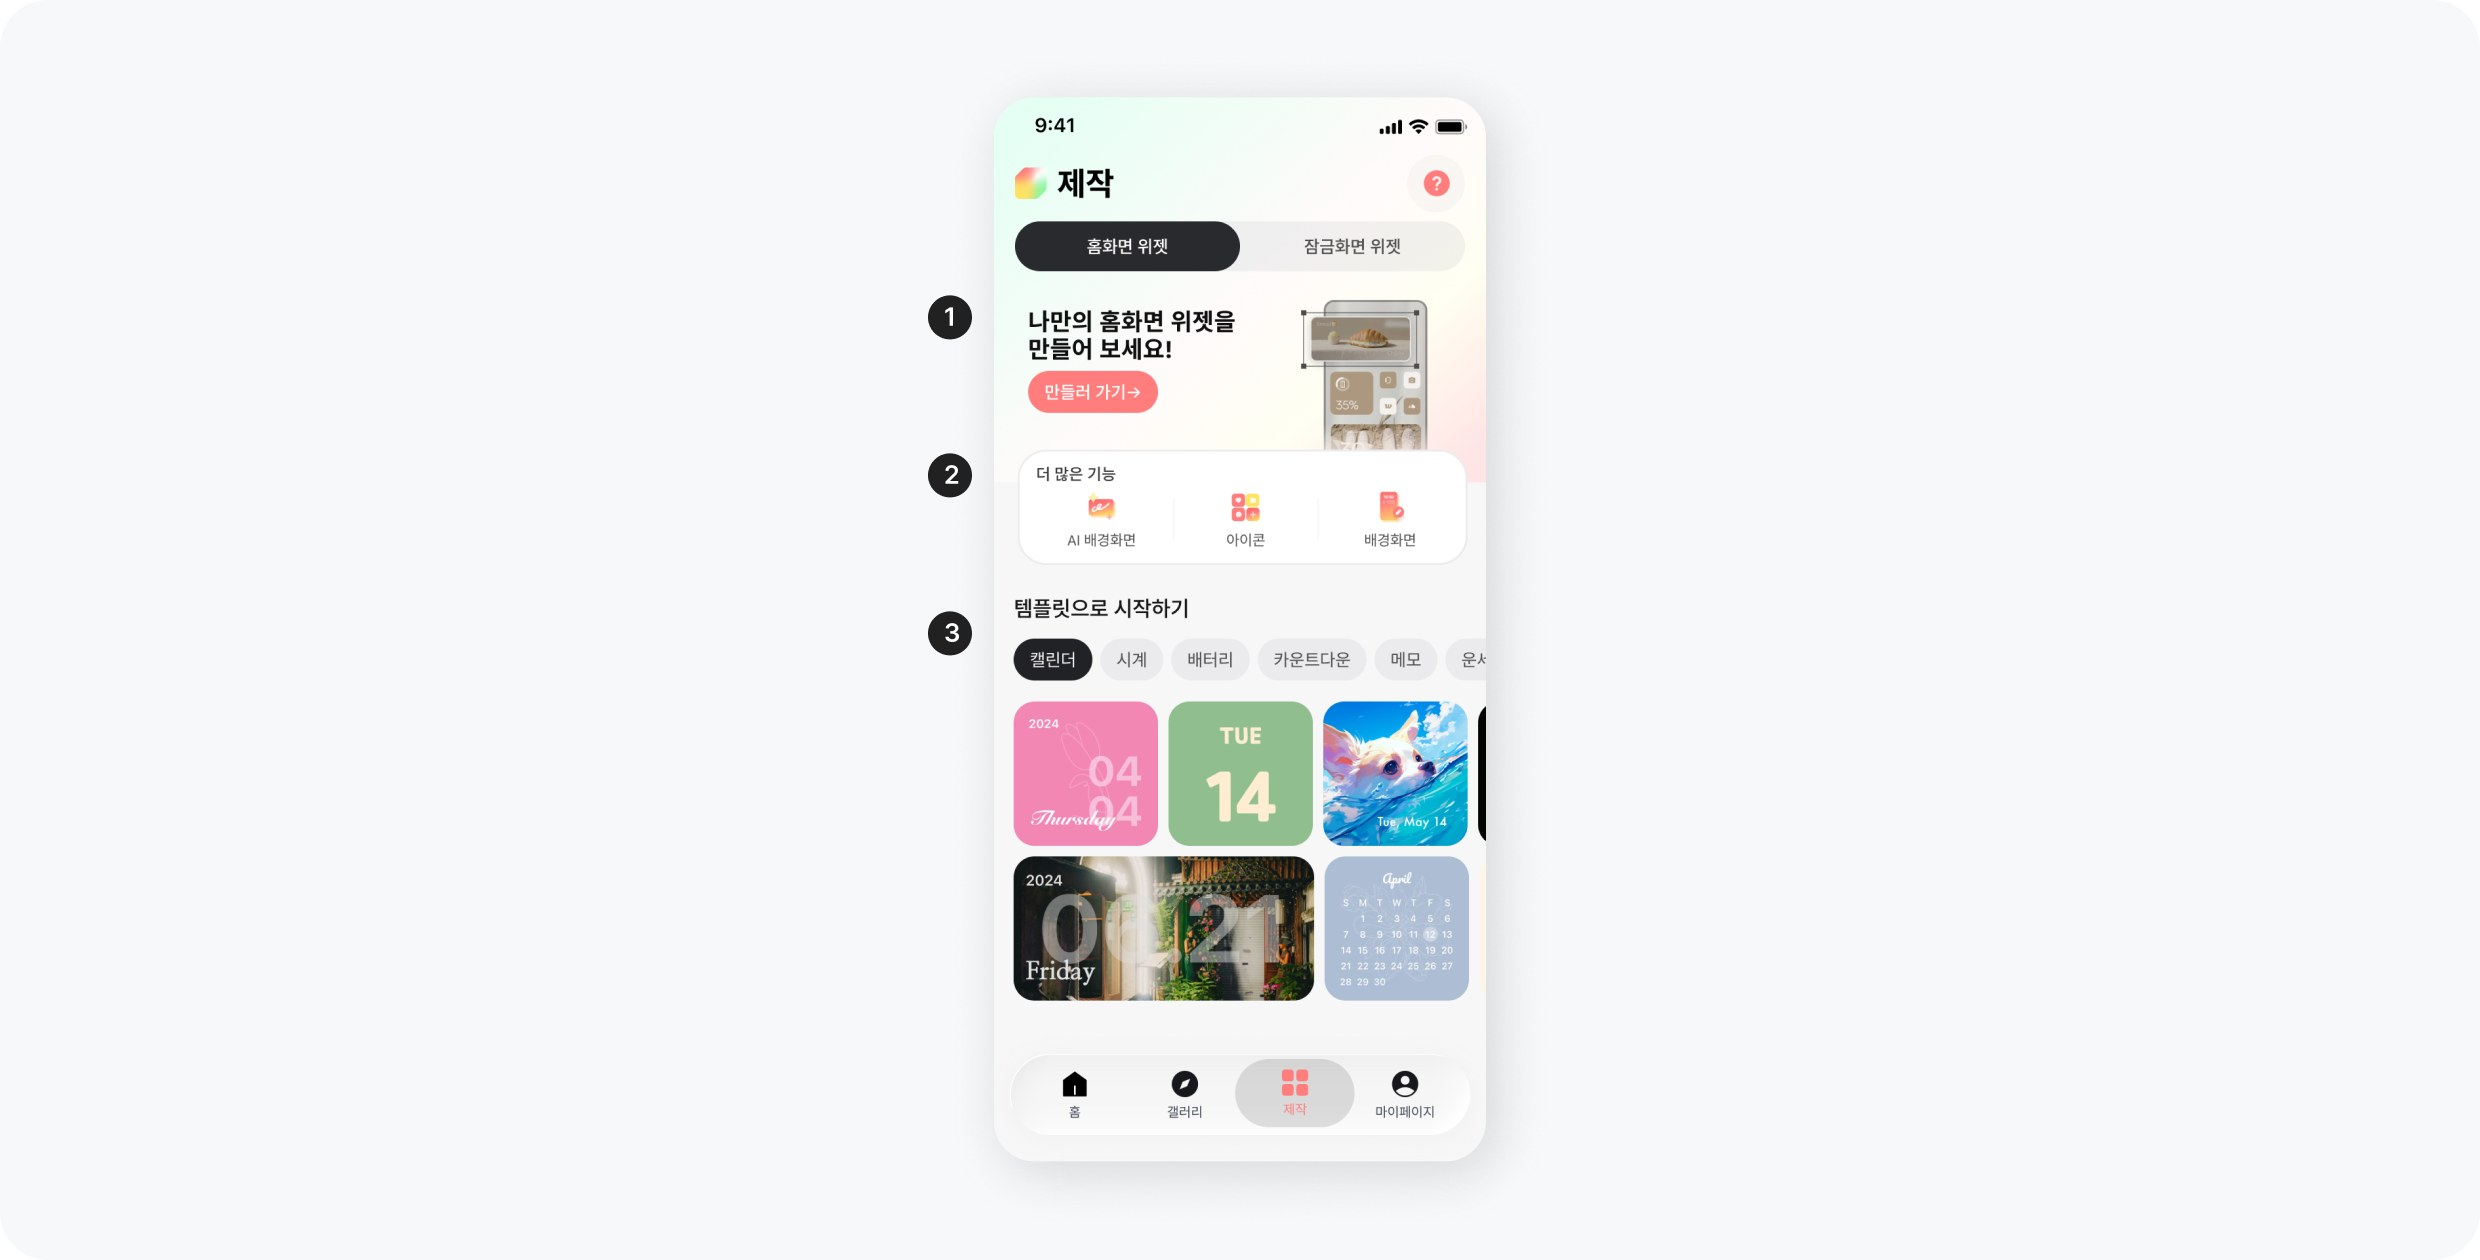
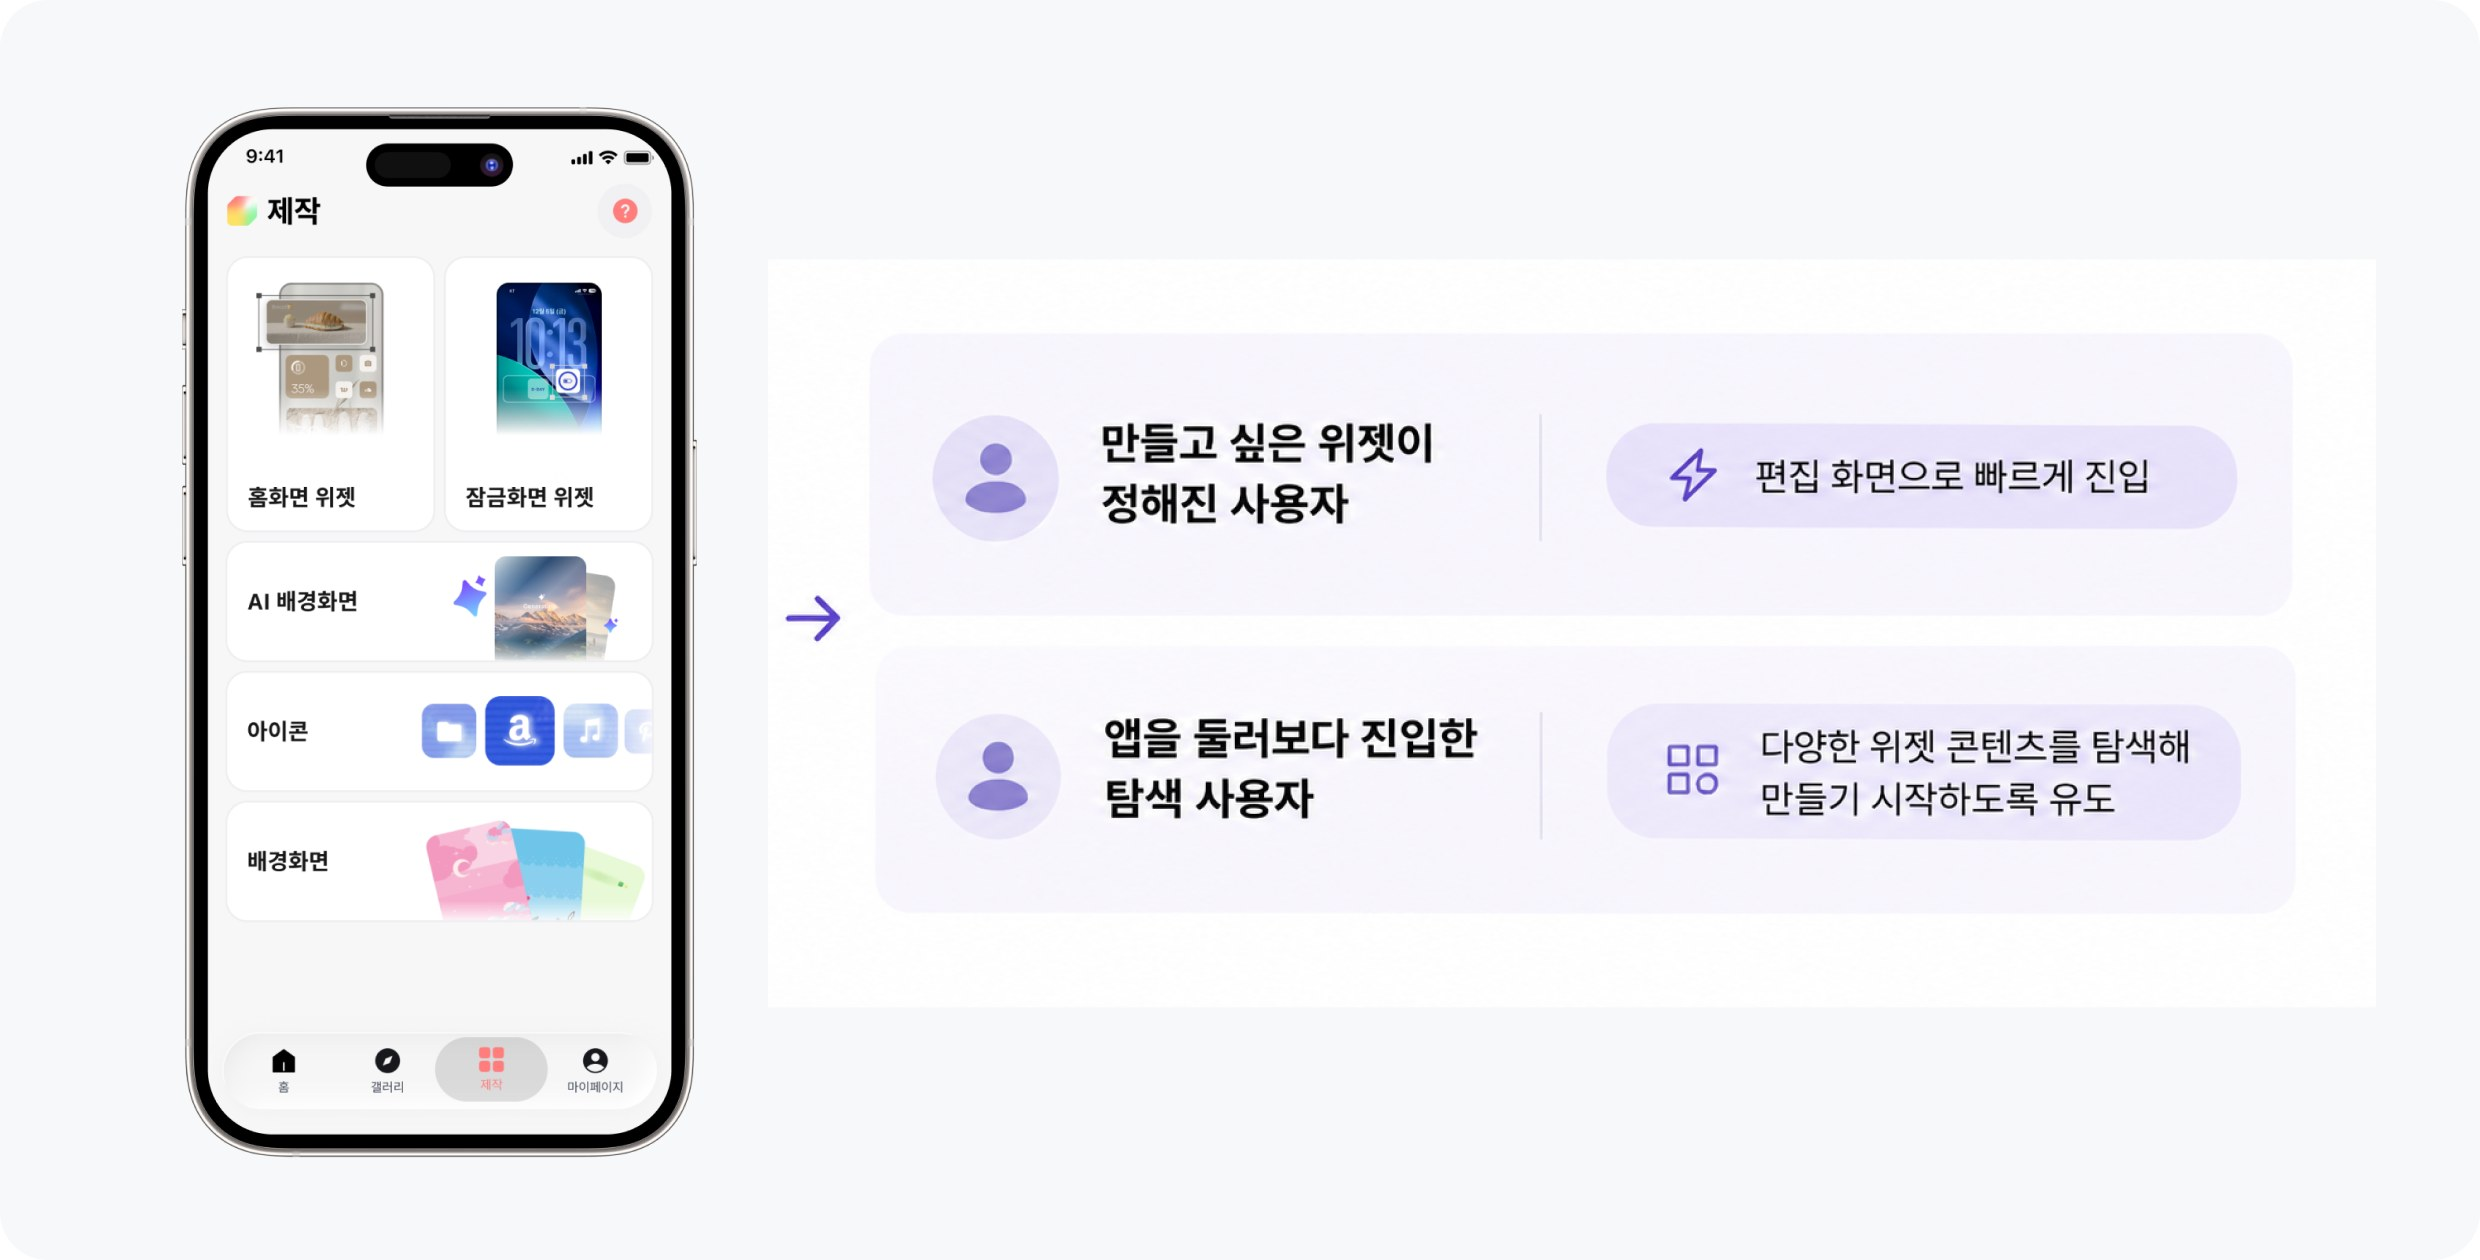
Widget-tab: hero image, new UX Strategy, Draft section, KPI text per Figma

diff --git a/docs/projects/photowidget-widget-tab/index.html b/docs/projects/photowidget-widget-tab/index.html
@@ -19,7 +19,7 @@
 </nav>
 
 <main class="page case-save case-tab">
-  <div class="ph ph-hero-save">위젯 탭 리뉴얼 Hero 이미지 플레이스홀더</div>
+  <img class="hero-shot" src="/yoojin-portfolio/assets/widget-tab/hero.jpg?v=1" width="1240" height="775" alt="제작 탭에서 위젯 탭으로 리뉴얼한 화면" />
 
   <header class="header text-col">
     <p class="caption">Photowidget</p>
@@ -52,20 +52,34 @@
       <p class="caption">KPI</p>
       <h2>제작 탭 진입을 유도하고 위젯 제작으로 이어지게 한다</h2>
       <div class="body body-reg">
-        <p>앞서 확인한 문제를 바탕으로 두 가지 KPI를 설정했어요. 첫 번째는 더 많은 사용자가 제작 탭에 진입하도록 유도해 위젯 제작으로 연결할 수 있는 사용자 모수를 확대하는 것, 두 번째는 탭에 진입한 사용자가 실제 위젯 제작을 시작하도록 유도해 편집 화면 진입률을 높이는 것이에요.</p>
+        <p>앞서 확인한 문제를 바탕으로 두 가지 KPI를 설정했어요. 첫 번째는 더 많은 사용자가 제작 탭에 진입하도록 유도해 위젯 제작으로 연결할 수 있는 사용자 모수를 확대하는 것, 두 번째는 탭에 진입한 사용자가 위젯 제작을 시작하도록 유도해 편집 화면 진입률을 높이는 것이에요.</p>
       </div>
     </div>
   </section>
 
   <section class="sec">
-    <img class="shot" src="/yoojin-portfolio/assets/widget-tab/strategy.jpg?v=2" width="1240" height="630" alt="1차 시안: 위젯 만들기 진입점, 더 많은 기능, 템플릿 영역에 1~3 번호 표시" />
+    <img class="shot" src="/yoojin-portfolio/assets/widget-tab/strategy.jpg?v=3" width="1240" height="630" alt="기존 제작 탭과 사용자 유형 두 가지: 만들고 싶은 위젯이 정해진 사용자는 편집 화면으로 빠르게 진입, 앱을 둘러보다 진입한 탐색 사용자는 위젯 콘텐츠를 탐색해 만들기 시작하도록 유도" />
     <div class="sec-text text-col">
       <p class="caption">UX Strategy</p>
-      <h2>사용자의 탭 진입 목적에 맞춰 탐색 경험을 재구성해 위젯 만들기를 유도한다</h2>
-      <div class="body body-reg stack gap10">
-        <p>기존 제작 탭은 여러 기능의 진입점만 제공하고 있어, 사용자가 탭에 들어와도 위젯 만들기를 시작할 계기가 부족했어요. <br />이를 해결하기 위해 제작 탭을 이용하는 사용자를 목적에 따라 두 유형으로 구분하고, 각 유형에 필요한 경험을 검토했어요.</p>
-        <p>하나는 위젯을 만들러 들어온 사용자가 편집 화면에 빠르게 진입할 수 있도록 하는 것, 다른 하나는 탐색하는 사용자가 다양한 템플릿을 둘러보며 만들고 싶은 위젯을 발견하도록 돕는 것이에요.</p>
-        <p>이 두 방향을 바탕으로 위젯 만들기 진입점을 강조하고 템플릿 탐색 영역을 추가했어요. 또한 기존 사용자의 이용 패턴을 고려해 다른 기능의 진입점은 유지하되 시각적 위계를 낮춰, 위젯 만들기를 중심으로 1차 시안을 구성했어요.</p>
+      <h2>사용자의 탭 진입 목적에 맞춰 제작 탭을 재구성해 위젯 제작 유도하기</h2>
+      <div class="body body-reg">
+        <p>기존 제작 탭은 여러 기능의 진입점만 제공해, 위젯 제작을 충분히 유도하지 못했어요. 이를 해결하기 위해 제작 탭에 진입하는 사용자 시나리오를 그려 두 유형으로 구분하고, 각 상황에 필요한 경험을 제공하고자 했어요.<br />하나는 위젯을 만들러 온 사용자가 편집 화면에 빠르게 진입하도록 하는 것, 다른 하나는 앱을 둘러보다 제작 탭에 진입한 사용자가 위젯 콘텐츠를 발견하고 이를 계기로 만들기 화면에 진입하도록 하는 것이에요.</p>
+      </div>
+    </div>
+  </section>
+
+  <section class="sec split split-tight">
+    <img class="shot" src="/yoojin-portfolio/assets/widget-tab/draft.jpg?v=1" width="610" height="630" alt="1차 시안: 위젯 만들기 진입점, 더 많은 기능 숏컷, 템플릿 영역에 1~3 번호 표시" />
+    <div class="sec-text">
+      <p class="caption">Draft</p>
+      <h2>기존 기능의 접근성을 유지하며 위젯 제작과 탐색 중심으로 화면 설계</h2>
+      <div class="body body-reg">
+        <p>위젯 만들기를 중심으로 제작 탭을 재구성하되, 기존 사용자의 이용 방식에 미치는 영향을 최소화하고자 했어요. 이에 다른 기능의 진입점은 유지하면서 시각적 우선순위를 조정하고, 콘텐츠 탐색 경험을 추가하는 방향으로 다음 세 가지 요소를 중심으로 시안을 설계했어요.</p>
+        <ol class="points points-draft">
+          <li><strong>빠른 편집 화면 진입을 위해 ‘위젯 만들기’를 최상단에 크게 배치</strong></li>
+          <li><strong>기존 기능은 그대로 제공하되, 숏컷으로 축소해 시각적 위계 조정</strong></li>
+          <li><strong>위젯을 탐색하며 만들기를 시작할 수 있도록 다양한 템플릿 제공</strong></li>
+        </ol>
       </div>
     </div>
   </section>
@@ -98,6 +112,17 @@
           <li><strong>진입점과 최근에 만든 위젯 노출</strong>언제든 만들기 화면에 진입할 수 있게 했어요.</li>
           <li><strong>세로 스크롤 구조로 변경</strong>다양한 템플릿 옵션을 노출했어요.</li>
         </ol>
+      </div>
+    </div>
+  </section>
+
+  <section class="sec">
+    <img class="shot" src="/yoojin-portfolio/assets/widget-tab/problem.jpg?v=2" width="1240" height="630" alt="기존 제작 탭 화면" />
+    <div class="sec-text text-col">
+      <p class="caption">Solution</p>
+      <h2>현재 제작 탭은 위젯 제작을 유도하지 못했다</h2>
+      <div class="body body-reg">
+        <p>3월 위젯 만들기 화면을 개편하면서, 위젯 제작을 유도하기 위한 별도의 공간으로 ‘제작 탭’을 함께 출시했어요. 그러나 출시 후 데이터를 확인한 결과, 제작 탭 진입률은 GNB 기준 5.8%에 그쳤고, 탭에 진입한 사용자 중 60%는 위젯 만들기 화면으로 이동하지 않았어요. 이를 통해 제작 탭으로의 유입이 적을 뿐 아니라, 탭 내에서도 위젯 제작을 충분히 유도하지 못해 출시 의도만큼 활용되지 않고 있음을 확인했어요.</p>
       </div>
     </div>
   </section>

diff --git a/docs/site.css b/docs/site.css
@@ -283,3 +283,9 @@ a.card:hover .ph { opacity: .75; }
 @media (min-width: 768px) { .case-tab .header + .sec { margin-top: 0; } }
 .case-tab .result-panel { background: #f6f8fa; }
 .case-tab .sec .body.stack.gap10 { gap: 10px; }
+.hero-shot { display: block; width: 100%; height: auto; }
+.case-tab .sec.split .body .points.points-draft { margin: 10px 0 0; }
+.case-tab .split .body .points-draft li { padding: 16px 10px 16px 46px; }
+.case-tab .split .body .points-draft li:first-child { border-top: 0; }
+.case-tab .split .body .points-draft li:last-child { border-bottom: 0; }
+.case-tab .split .body .points-draft li::before { left: 10px; top: 18.5px; }
